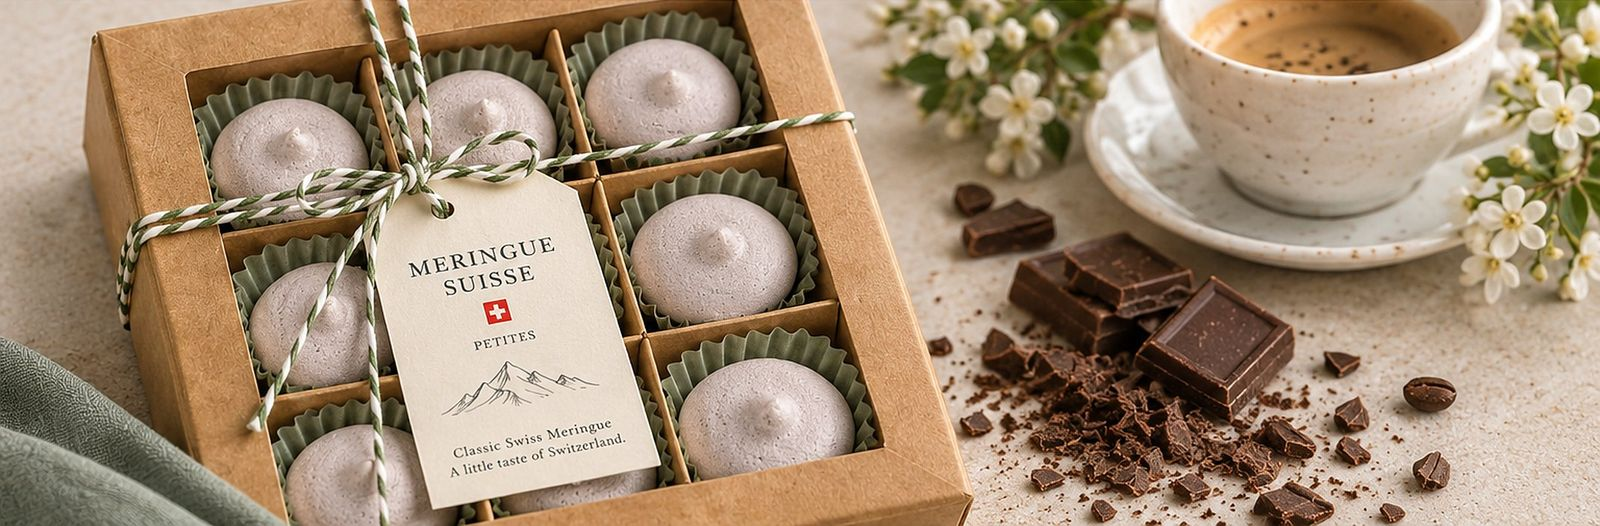
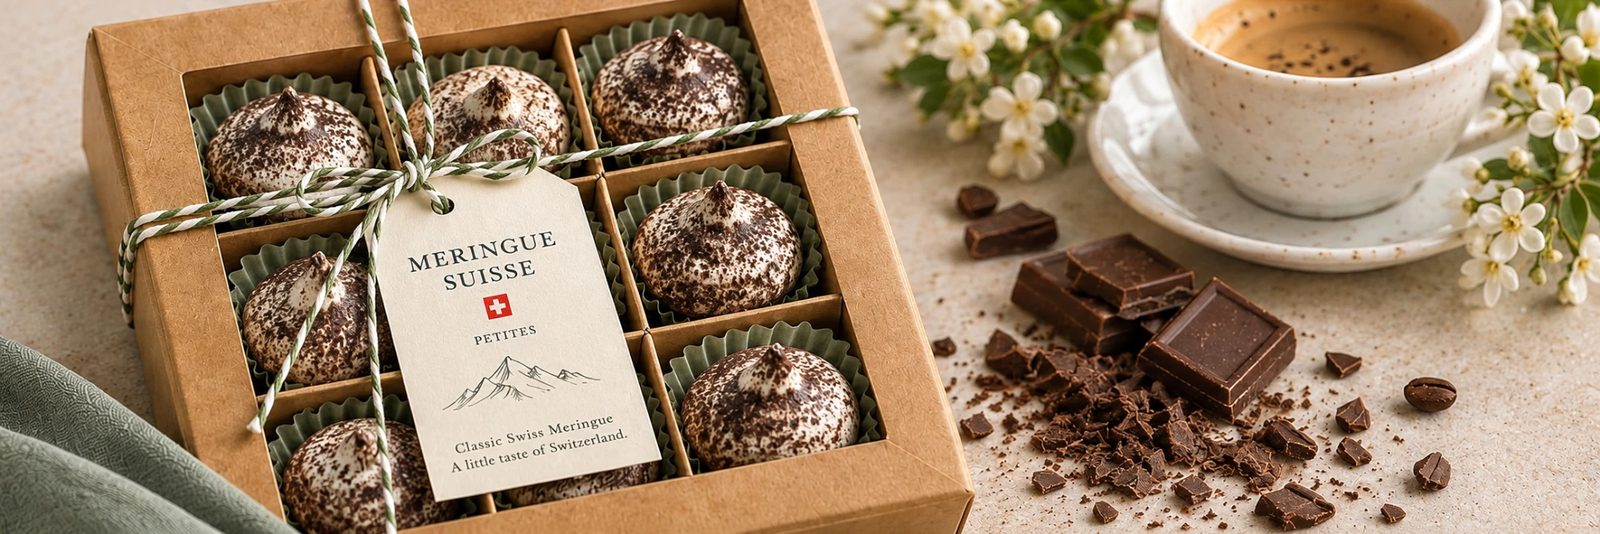
New chocolate meringue photos with a chocolate-only shop gallery
Home flavor card and cart use the new chocolate box photo; selecting
Chocolate on the shop shows the open box and four chocolate photos
(open box, tied box, close-up, box with dark chocolate).

Claude-Session: https://claude.ai/code/session_01WSfocUezPVniS89HuC4wU9

diff --git a/assets/site.js b/assets/site.js
@@ -39,16 +39,27 @@
     var flavorImg={
       classic:{src:"images/hero.jpg",alt:"Kraft box of nine classic Swiss meringues in sage-green cups"},
       coffee:{src:"images/coffee.jpg",alt:"Kraft box of nine coffee meringues tied with twine, beside coffee beans and an espresso",pos:"25% 50%"},
-      chocolate:{src:"images/chocolate.jpg",alt:"Kraft box of nine chocolate meringues tied with twine, beside pieces of dark chocolate",pos:"25% 50%"}
+      chocolate:{src:"images/choc-open.jpg",alt:"Open kraft box of nine chocolate meringues dusted with cocoa",pos:"30% 50%",gallery:[
+        {src:"images/choc-open.jpg",alt:"Open kraft box of nine chocolate meringues dusted with cocoa",pos:"30% 50%"},
+        {src:"images/choc-tied.jpg",alt:"Box of chocolate meringues tied with twine and a Meringue Suisse tag",pos:"30% 50%"},
+        {src:"images/choc-closeup.jpg",alt:"Close-up of a chocolate meringue dusted with cocoa",pos:"50% 50%"},
+        {src:"images/chocolate.jpg",alt:"Chocolate meringues in their box beside pieces of dark chocolate and an espresso",pos:"25% 50%"}]}
+    };
+    // small photos under the main photo: per-flavor set when defined, else the default set
+    var thumbsEl=$(".thumbs"),defaultThumbs=thumbsEl?thumbsEl.innerHTML:"";
+    var setMain=function(g){var im=$("#main-img");im.src=g.src;im.alt=g.alt;im.style.objectPosition=g.pos||""};
+    var setGallery=function(list){
+      if(!thumbsEl)return;
+      thumbsEl.innerHTML=list?list.map(function(g,i){return '<button type="button" aria-pressed="'+(i===0)+'" data-src="'+g.src+'" data-alt="'+esc(g.alt)+'" data-pos="'+(g.pos||"")+'"><img src="'+g.src+'" alt="Show photo '+(i+1)+'"'+(g.pos?' style="object-position:'+g.pos+'"':'')+'></button>'}).join(""):defaultThumbs;
     };
     var showFlavor=function(id){
       var f=flavor(id),line=$("#flavor-line");if(f&&line)line.textContent=f.name+" Swiss Meringue";
-      var m=flavorImg[id];if(!m)return;var im=$("#main-img");im.src=m.src;im.alt=m.alt;im.style.objectPosition=m.pos||"";
+      var m=flavorImg[id];if(!m)return;setGallery(m.gallery);setMain(m);
       document.querySelectorAll(".thumbs button").forEach(function(x){x.setAttribute("aria-pressed",x.dataset.src===m.src)});
     };
     fl.addEventListener("change",function(){showFlavor($('input[name=flavor]:checked').value)});
     // load the flavor photos in the background so switching flavor is instant
-    var preload=function(){Object.keys(flavorImg).forEach(function(k){var i=new Image();i.src=flavorImg[k].src})};
+    var preload=function(){Object.keys(flavorImg).forEach(function(k){[flavorImg[k]].concat(flavorImg[k].gallery||[]).forEach(function(g){var i=new Image();i.src=g.src})})};
     if(document.readyState==="complete")preload();else window.addEventListener("load",preload);
     // preselect flavor from ?flavor=
     var p=new URLSearchParams(location.search).get("flavor");if(p&&$("#f-"+p)){$("#f-"+p).checked=true;showFlavor(p)}
@@ -58,9 +69,9 @@
       if(ex)ex.qty=Math.min(20,ex.qty+n);else c.push({size:s,flavor:f,qty:n});
       save(c);var m=$("#added");m.classList.add("show");m.focus&&m.focus();
     };
-    document.querySelectorAll(".thumbs button").forEach(function(b){b.onclick=function(){
-      $("#main-img").src=b.dataset.src;$("#main-img").alt=b.dataset.alt;$("#main-img").style.objectPosition="";
-      document.querySelectorAll(".thumbs button").forEach(function(x){x.setAttribute("aria-pressed",x===b)})}});
+    if(thumbsEl)thumbsEl.addEventListener("click",function(e){var b=e.target.closest("button");if(!b)return;
+      setMain({src:b.dataset.src,alt:b.dataset.alt,pos:b.dataset.pos});
+      thumbsEl.querySelectorAll("button").forEach(function(x){x.setAttribute("aria-pressed",x===b)})});
   }
 
   // ---- cart page

diff --git a/index.html b/index.html
@@ -17,7 +17,7 @@
 <link rel="manifest" href="/site.webmanifest">
 <link rel="preconnect" href="https://fonts.googleapis.com"><link rel="preconnect" href="https://fonts.gstatic.com" crossorigin>
 <link href="https://fonts.googleapis.com/css2?family=Cormorant+Garamond:ital,wght@0,400;0,500;0,600;1,400;1,500&family=Figtree:wght@400;500;600&display=swap" rel="stylesheet">
-<link rel="stylesheet" href="assets/style.css?v=2026102401">
+<link rel="stylesheet" href="assets/style.css?v=2026102402">
 </head><body>
 <a class="skip" href="#main">Skip to content</a>
 <header class="site-header"><div class="wrap nav">
@@ -48,7 +48,7 @@
  <div class="cards">
   <a class="card" href="/shop?flavor=classic"><div class="ph"><img src="images/classic.jpg" alt="A single classic Swiss meringue" loading="lazy" width="1139" height="701"></div><div class="b"><span class="n">01</span><h3>CLASSIC</h3><p>Pure, delicate and timeless.</p></div></a>
   <a class="card" href="/shop?flavor=coffee"><div class="ph"><img src="images/coffee.jpg" style="object-position:25% 50%" alt="Kraft box of nine coffee meringues tied with twine, beside coffee beans and an espresso" loading="lazy" width="1600" height="532"></div><div class="b"><span class="n">02</span><h3>COFFEE</h3><p>A delicate coffee note for those who appreciate a richer taste.</p></div></a>
-  <a class="card" href="/shop?flavor=chocolate"><div class="ph"><img src="images/chocolate.jpg" style="object-position:25% 50%" alt="Kraft box of nine chocolate meringues tied with twine, beside pieces of dark chocolate" loading="lazy" width="1600" height="526"></div><div class="b"><span class="n">03</span><h3>CHOCOLATE</h3><p>A refined cocoa variation inspired by Swiss chocolate tradition.</p></div></a>
+  <a class="card" href="/shop?flavor=chocolate"><div class="ph"><img src="images/chocolate.jpg" style="object-position:25% 50%" alt="Chocolate meringues dusted with cocoa in a kraft box tied with twine, beside dark chocolate" loading="lazy" width="1600" height="534"></div><div class="b"><span class="n">03</span><h3>CHOCOLATE</h3><p>A refined cocoa variation inspired by Swiss chocolate tradition.</p></div></a>
  </div>
  <p class="note">Coffee and Chocolate are planned for launch, subject to final recipe approval.</p>
 </div></section>
@@ -87,6 +87,6 @@
 <p style="margin-top:.5rem">Ingredients, allergens and net weight are listed on each product page.</p></div>
 </div></footer>
 <script>document.getElementById("yr").textContent=new Date().getFullYear()</script>
-<script src="assets/config.js?v=2026102401"></script><script src="assets/site.js?v=2026102401"></script>
+<script src="assets/config.js?v=2026102402"></script><script src="assets/site.js?v=2026102402"></script>
 <!-- Cloudflare Web Analytics --><script type='module' src='https://static.cloudflareinsights.com/beacon.min.js' data-cf-beacon='{"token": "d83dcca4d8484fac94c0cab27d64881f"}'></script><!-- End Cloudflare Web Analytics -->
 </body></html>

diff --git a/404.html b/404.html
@@ -16,7 +16,7 @@
 <link rel="manifest" href="/site.webmanifest">
 <link rel="preconnect" href="https://fonts.googleapis.com"><link rel="preconnect" href="https://fonts.gstatic.com" crossorigin>
 <link href="https://fonts.googleapis.com/css2?family=Cormorant+Garamond:ital,wght@0,400;0,500;0,600;1,400;1,500&family=Figtree:wght@400;500;600&display=swap" rel="stylesheet">
-<link rel="stylesheet" href="/assets/style.css?v=2026102401">
+<link rel="stylesheet" href="/assets/style.css?v=2026102402">
 </head><body>
 <a class="skip" href="#main">Skip to content</a>
 <header class="site-header"><div class="wrap nav">
@@ -42,6 +42,6 @@
 <p style="margin-top:.5rem">Ingredients, allergens and net weight are listed on each product page.</p></div>
 </div></footer>
 <script>document.getElementById("yr").textContent=new Date().getFullYear()</script>
-<script src="/assets/config.js?v=2026102401"></script><script src="/assets/site.js?v=2026102401"></script>
+<script src="/assets/config.js?v=2026102402"></script><script src="/assets/site.js?v=2026102402"></script>
 <!-- Cloudflare Web Analytics --><script type='module' src='https://static.cloudflareinsights.com/beacon.min.js' data-cf-beacon='{"token": "d83dcca4d8484fac94c0cab27d64881f"}'></script><!-- End Cloudflare Web Analytics -->
 </body></html>

diff --git a/cart.html b/cart.html
@@ -16,7 +16,7 @@
 <link rel="manifest" href="/site.webmanifest">
 <link rel="preconnect" href="https://fonts.googleapis.com"><link rel="preconnect" href="https://fonts.gstatic.com" crossorigin>
 <link href="https://fonts.googleapis.com/css2?family=Cormorant+Garamond:ital,wght@0,400;0,500;0,600;1,400;1,500&family=Figtree:wght@400;500;600&display=swap" rel="stylesheet">
-<link rel="stylesheet" href="assets/style.css?v=2026102401">
+<link rel="stylesheet" href="assets/style.css?v=2026102402">
 </head><body>
 <a class="skip" href="#main">Skip to content</a>
 <header class="site-header"><div class="wrap nav">
@@ -70,6 +70,6 @@
 <p style="margin-top:.5rem">Ingredients, allergens and net weight are listed on each product page.</p></div>
 </div></footer>
 <script>document.getElementById("yr").textContent=new Date().getFullYear()</script>
-<script src="assets/config.js?v=2026102401"></script><script src="assets/site.js?v=2026102401"></script>
+<script src="assets/config.js?v=2026102402"></script><script src="assets/site.js?v=2026102402"></script>
 <!-- Cloudflare Web Analytics --><script type='module' src='https://static.cloudflareinsights.com/beacon.min.js' data-cf-beacon='{"token": "d83dcca4d8484fac94c0cab27d64881f"}'></script><!-- End Cloudflare Web Analytics -->
 </body></html>

diff --git a/contact.html b/contact.html
@@ -16,7 +16,7 @@
 <link rel="manifest" href="/site.webmanifest">
 <link rel="preconnect" href="https://fonts.googleapis.com"><link rel="preconnect" href="https://fonts.gstatic.com" crossorigin>
 <link href="https://fonts.googleapis.com/css2?family=Cormorant+Garamond:ital,wght@0,400;0,500;0,600;1,400;1,500&family=Figtree:wght@400;500;600&display=swap" rel="stylesheet">
-<link rel="stylesheet" href="assets/style.css?v=2026102401">
+<link rel="stylesheet" href="assets/style.css?v=2026102402">
 </head><body>
 <a class="skip" href="#main">Skip to content</a>
 <header class="site-header"><div class="wrap nav">
@@ -53,6 +53,6 @@
 <p style="margin-top:.5rem">Ingredients, allergens and net weight are listed on each product page.</p></div>
 </div></footer>
 <script>document.getElementById("yr").textContent=new Date().getFullYear()</script>
-<script src="assets/config.js?v=2026102401"></script><script src="assets/site.js?v=2026102401"></script>
+<script src="assets/config.js?v=2026102402"></script><script src="assets/site.js?v=2026102402"></script>
 <!-- Cloudflare Web Analytics --><script type='module' src='https://static.cloudflareinsights.com/beacon.min.js' data-cf-beacon='{"token": "d83dcca4d8484fac94c0cab27d64881f"}'></script><!-- End Cloudflare Web Analytics -->
 </body></html>

diff --git a/privacy.html b/privacy.html
@@ -15,7 +15,7 @@
 <link rel="manifest" href="/site.webmanifest">
 <link rel="preconnect" href="https://fonts.googleapis.com"><link rel="preconnect" href="https://fonts.gstatic.com" crossorigin>
 <link href="https://fonts.googleapis.com/css2?family=Cormorant+Garamond:ital,wght@0,400;0,500;0,600;1,400;1,500&family=Figtree:wght@400;500;600&display=swap" rel="stylesheet">
-<link rel="stylesheet" href="assets/style.css?v=2026102401">
+<link rel="stylesheet" href="assets/style.css?v=2026102402">
 </head><body>
 <a class="skip" href="#main">Skip to content</a>
 <header class="site-header"><div class="wrap nav">
@@ -83,6 +83,6 @@
 <p style="margin-top:.5rem">Ingredients, allergens and net weight are listed on each product page.</p></div>
 </div></footer>
 <script>document.getElementById("yr").textContent=new Date().getFullYear()</script>
-<script src="assets/config.js?v=2026102401"></script><script src="assets/site.js?v=2026102401"></script>
+<script src="assets/config.js?v=2026102402"></script><script src="assets/site.js?v=2026102402"></script>
 <!-- Cloudflare Web Analytics --><script type='module' src='https://static.cloudflareinsights.com/beacon.min.js' data-cf-beacon='{"token": "d83dcca4d8484fac94c0cab27d64881f"}'></script><!-- End Cloudflare Web Analytics -->
 </body></html>

diff --git a/shipping-returns.html b/shipping-returns.html
@@ -16,7 +16,7 @@
 <link rel="manifest" href="/site.webmanifest">
 <link rel="preconnect" href="https://fonts.googleapis.com"><link rel="preconnect" href="https://fonts.gstatic.com" crossorigin>
 <link href="https://fonts.googleapis.com/css2?family=Cormorant+Garamond:ital,wght@0,400;0,500;0,600;1,400;1,500&family=Figtree:wght@400;500;600&display=swap" rel="stylesheet">
-<link rel="stylesheet" href="assets/style.css?v=2026102401">
+<link rel="stylesheet" href="assets/style.css?v=2026102402">
 </head><body>
 <a class="skip" href="#main">Skip to content</a>
 <header class="site-header"><div class="wrap nav">
@@ -47,6 +47,6 @@
 <p style="margin-top:.5rem">Ingredients, allergens and net weight are listed on each product page.</p></div>
 </div></footer>
 <script>document.getElementById("yr").textContent=new Date().getFullYear()</script>
-<script src="assets/config.js?v=2026102401"></script><script src="assets/site.js?v=2026102401"></script>
+<script src="assets/config.js?v=2026102402"></script><script src="assets/site.js?v=2026102402"></script>
 <!-- Cloudflare Web Analytics --><script type='module' src='https://static.cloudflareinsights.com/beacon.min.js' data-cf-beacon='{"token": "d83dcca4d8484fac94c0cab27d64881f"}'></script><!-- End Cloudflare Web Analytics -->
 </body></html>

diff --git a/shop.html b/shop.html
@@ -17,7 +17,7 @@
 <link rel="manifest" href="/site.webmanifest">
 <link rel="preconnect" href="https://fonts.googleapis.com"><link rel="preconnect" href="https://fonts.gstatic.com" crossorigin>
 <link href="https://fonts.googleapis.com/css2?family=Cormorant+Garamond:ital,wght@0,400;0,500;0,600;1,400;1,500&family=Figtree:wght@400;500;600&display=swap" rel="stylesheet">
-<link rel="stylesheet" href="assets/style.css?v=2026102401">
+<link rel="stylesheet" href="assets/style.css?v=2026102402">
 </head><body>
 <a class="skip" href="#main">Skip to content</a>
 <header class="site-header"><div class="wrap nav">
@@ -79,6 +79,6 @@
 <p style="margin-top:.5rem">Ingredients, allergens and net weight are listed on each product page.</p></div>
 </div></footer>
 <script>document.getElementById("yr").textContent=new Date().getFullYear()</script>
-<script src="assets/config.js?v=2026102401"></script><script src="assets/site.js?v=2026102401"></script>
+<script src="assets/config.js?v=2026102402"></script><script src="assets/site.js?v=2026102402"></script>
 <!-- Cloudflare Web Analytics --><script type='module' src='https://static.cloudflareinsights.com/beacon.min.js' data-cf-beacon='{"token": "d83dcca4d8484fac94c0cab27d64881f"}'></script><!-- End Cloudflare Web Analytics -->
 </body></html>

diff --git a/story.html b/story.html
@@ -16,7 +16,7 @@
 <link rel="manifest" href="/site.webmanifest">
 <link rel="preconnect" href="https://fonts.googleapis.com"><link rel="preconnect" href="https://fonts.gstatic.com" crossorigin>
 <link href="https://fonts.googleapis.com/css2?family=Cormorant+Garamond:ital,wght@0,400;0,500;0,600;1,400;1,500&family=Figtree:wght@400;500;600&display=swap" rel="stylesheet">
-<link rel="stylesheet" href="assets/style.css?v=2026102401">
+<link rel="stylesheet" href="assets/style.css?v=2026102402">
 </head><body>
 <a class="skip" href="#main">Skip to content</a>
 <header class="site-header"><div class="wrap nav">
@@ -53,6 +53,6 @@
 <p style="margin-top:.5rem">Ingredients, allergens and net weight are listed on each product page.</p></div>
 </div></footer>
 <script>document.getElementById("yr").textContent=new Date().getFullYear()</script>
-<script src="assets/config.js?v=2026102401"></script><script src="assets/site.js?v=2026102401"></script>
+<script src="assets/config.js?v=2026102402"></script><script src="assets/site.js?v=2026102402"></script>
 <!-- Cloudflare Web Analytics --><script type='module' src='https://static.cloudflareinsights.com/beacon.min.js' data-cf-beacon='{"token": "d83dcca4d8484fac94c0cab27d64881f"}'></script><!-- End Cloudflare Web Analytics -->
 </body></html>

diff --git a/terms.html b/terms.html
@@ -15,7 +15,7 @@
 <link rel="manifest" href="/site.webmanifest">
 <link rel="preconnect" href="https://fonts.googleapis.com"><link rel="preconnect" href="https://fonts.gstatic.com" crossorigin>
 <link href="https://fonts.googleapis.com/css2?family=Cormorant+Garamond:ital,wght@0,400;0,500;0,600;1,400;1,500&family=Figtree:wght@400;500;600&display=swap" rel="stylesheet">
-<link rel="stylesheet" href="assets/style.css?v=2026102401">
+<link rel="stylesheet" href="assets/style.css?v=2026102402">
 </head><body>
 <a class="skip" href="#main">Skip to content</a>
 <header class="site-header"><div class="wrap nav">
@@ -46,6 +46,6 @@
 <p style="margin-top:.5rem">Ingredients, allergens and net weight are listed on each product page.</p></div>
 </div></footer>
 <script>document.getElementById("yr").textContent=new Date().getFullYear()</script>
-<script src="assets/config.js?v=2026102401"></script><script src="assets/site.js?v=2026102401"></script>
+<script src="assets/config.js?v=2026102402"></script><script src="assets/site.js?v=2026102402"></script>
 <!-- Cloudflare Web Analytics --><script type='module' src='https://static.cloudflareinsights.com/beacon.min.js' data-cf-beacon='{"token": "d83dcca4d8484fac94c0cab27d64881f"}'></script><!-- End Cloudflare Web Analytics -->
 </body></html>

diff --git a/thank-you.html b/thank-you.html
@@ -16,7 +16,7 @@
 <link rel="manifest" href="/site.webmanifest">
 <link rel="preconnect" href="https://fonts.googleapis.com"><link rel="preconnect" href="https://fonts.gstatic.com" crossorigin>
 <link href="https://fonts.googleapis.com/css2?family=Cormorant+Garamond:ital,wght@0,400;0,500;0,600;1,400;1,500&family=Figtree:wght@400;500;600&display=swap" rel="stylesheet">
-<link rel="stylesheet" href="assets/style.css?v=2026102401">
+<link rel="stylesheet" href="assets/style.css?v=2026102402">
 </head><body>
 <a class="skip" href="#main">Skip to content</a>
 <header class="site-header"><div class="wrap nav">
@@ -44,5 +44,5 @@
 <p style="margin-top:.5rem">Ingredients, allergens and net weight are listed on each product page.</p></div>
 </div></footer>
 <script>document.getElementById("yr").textContent=new Date().getFullYear()</script>
-<script src="assets/config.js?v=2026102401"></script><script src="assets/site.js?v=2026102401"></script>
+<script src="assets/config.js?v=2026102402"></script><script src="assets/site.js?v=2026102402"></script>
 </body></html>

diff --git a/promo-admin.html b/promo-admin.html
@@ -5,7 +5,7 @@
 <meta name="robots" content="noindex, nofollow">
 <link rel="icon" href="/favicon.ico" sizes="48x48">
 <link rel="icon" href="/favicon.svg" type="image/svg+xml">
-<link rel="stylesheet" href="assets/style.css?v=2026102401">
+<link rel="stylesheet" href="assets/style.css?v=2026102402">
 <style>
 .admin{max-width:40rem;margin:0 auto;padding:3rem 1.25rem 5rem}
 .admin .field{margin-top:1.2rem}.admin label{display:block;font-size:.9rem;margin-bottom:.35rem}
@@ -34,7 +34,7 @@
 <div id="table"></div>
 <p class="fine" style="margin-top:2rem">To disable a code: Stripe → Product catalog → Coupons → <em>Free box (PETITES)</em> → Promotion codes.</p>
 </main>
-<script src="assets/config.js?v=2026102401"></script>
+<script src="assets/config.js?v=2026102402"></script>
 <script>
 (function(){
   var E=window.SITE.checkoutEndpoint,$=function(s){return document.querySelector(s)},log=$("#log");
